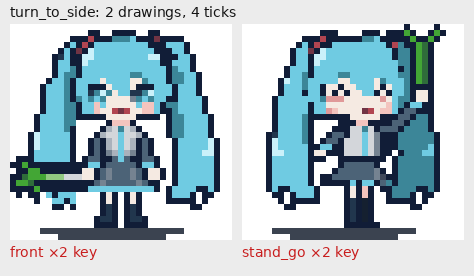
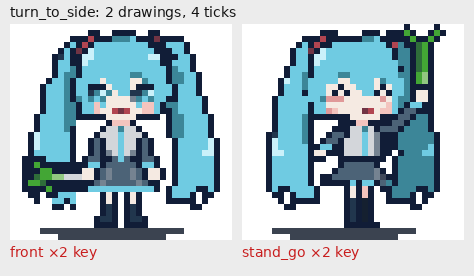
miku-v2 compact tier, critic round 3 fixes: no leftover lash beside the '^' eyes, raised leek pales to white at the fist with a lit edge and joined leaves, flat front shirt, front leek no wider than the walk, lowering leek drawn in front of the legs

diff --git a/tools/miku/halve.py b/tools/miku/halve.py
@@ -87,12 +87,13 @@ def despeckle(g):
 EYES = {
     "open":       [["BBB", "FCG", "CAC"], ["BBB", "FCG", "CAC"]],      # front view
     "line_front": [["...", "BBB", "..."], ["...", "BBB", "..."]],
-    "cheery":     [["..B..", ".B.B."], [".B.", "B.B"]],
+    "cheery":     [["A..B..", "A.B.B."], [".B.", "B.B"]],    # col 0: the halved lash -> hair
     "half":       [["BBBBB", ".FCF."], ["BBB", "FCF"]],
     "line":       [[".....", "BBBBB"], ["...", "BBB"]],
 }
 FRONT_EYES = [(13, 10), (21, 10)]
 DIAG_EYES = [(14, 10), (22, 10)]         # with the head at its rest position
+EYE_X0 = {"cheery": [-1, 0]}             # patches that start a column left of the eye
 
 
 def put(g, x0, y0, rows):
@@ -143,11 +144,11 @@ def paste_ring(g, x0, y0, rows, behind=False):
 
 FRONT_BODY = (11, 16, [          # front view, rows 16-33: jacket, tie, sleeves, skirt, legs
     "     BPPPB     ",
-    "    BNLCLNB    ",
-    "   BNLLALLNB   ",
-    "  BDBNLALNBDB  ",
-    "  BDBNLALNBDB  ",
-    "  BDBKNANKBDB  ",
+    "    BLLCLLB    ",
+    "   BLLLALLLB   ",
+    "  BDBLLALLBDB  ",
+    "  BDBLLALLBDB  ",
+    "  BDBKLALKBDB  ",
     " BDDBBDADBBDDB ",
     " BAABDDDDDBAAB ",
     "BEEBDKDDDKDBEEB",
@@ -161,11 +162,11 @@ FRONT_BODY = (11, 16, [          # front view, rows 16-33: jacket, tie, sleeves,
     "   BFFB BFFB   ",
     "   BBBB BBBB   ",
 ])
-FRONT_LEEK = (1, 23, ["BIB        ",       # blades splay unevenly; white root at her hand
-                      " BIIBBBBBBB",
-                      "BXIIIbbbLLL",
-                      "IIXBBBBBBBB",
-                      "B  I       "])
+FRONT_LEEK = (3, 23, ["BIB      ",         # blades splay unevenly; white root at her hand;
+                      " BIIBBBBB",         # no wider than the walking silhouette
+                      "BXIIbbLLL",
+                      "IIXBBBBBB",
+                      "B  I     "])
 FRONT_MOUTH = {"open": (17, 14, "SVS"), "line_front": (17, 14, "EBB")}
 
 # flat shirt: one light grey, one shade column on the far side, a 1 px tie with its knot
@@ -186,17 +187,17 @@ NEAR_ARM = (11, 18, ["    DD",            # rows 2-3 (forearm) shift with the sw
                      "  AA  ",
                      " EE   "])
 LIMP_ARM = (14, 18, ["DD", "DD", "DD", "DD", "AA", "EE"])
-LEEK_UP = (27, 1, ["I    I",
+LEEK_UP = (27, 1, ["I    I",           # leaves joined to the stalk as a V
                    " I  I ",
-                   "  IX  ",
-                   "  IX  ",
-                   "  IX  ",
-                   "  IX  ",
-                   "  IX  ",
-                   "  IX  ",
-                   "  IX  ",
-                   "  bb  ",
-                   "      ",
+                   "  XI  ",            # dark side and lit edge
+                   "  XI  ",
+                   "  XI  ",
+                   "  XI  ",
+                   "  XI  ",
+                   "  Ib  ",            # paling toward the white end at her fist
+                   "  Ib  ",
+                   "  bL  ",
+                   "  bL  ",
                    "      ",
                    "   L  "])
 ARM_UP = (23, 11, ["      EE",
@@ -261,7 +262,7 @@ def parts_diagonal(g, meta, arm, k):
     u, leek = meta["u"], meta["leek"]
     sh = lambda part, dy=db: (part[0], part[1] + dy, part[2])        # noqa: E731
     if leek == "low":
-        paste_ring(g, *sh(LEEK_LOW), behind=True)
+        paste_ring(g, *sh(LEEK_LOW))
     if leek == "drag":
         x0, y0, rows = DRAG_LEAVES
         paste_ring(g, x0, y0, rows)
@@ -288,8 +289,7 @@ def parts_diagonal(g, meta, arm, k):
         paste_ring(g, *sh(ARM_MID))
     elif leek == "up":
         x0, y0, rows = LEEK_UP
-        paste_ring(g, x0 - arm, y0 + db, rows[:2])               # the leaves trail the arm
-        paste_ring(g, x0, y0 + 2 + db, rows[2:])
+        paste_ring(g, x0, y0 + db, rows)
         paste_ring(g, *sh(ARM_UP))
     m = MOUTH.get(meta["face"], "BB")
     for i, c in enumerate(m):
@@ -304,8 +304,8 @@ def compact(full_rows, eyes=None, meta=None, arm=0, k=0):
     close_outline(g)
     if eyes:
         face, spots = eyes
-        for (x, y), rows in zip(spots, EYES[face]):
-            put(g, x, y, rows)
+        for i, ((x, y), rows) in enumerate(zip(spots, EYES[face])):
+            put(g, x + EYE_X0.get(face, [0, 0])[i], y, rows)
     if meta is not None:
         if meta.get("view") == "front":
             parts_front(g, meta.get("drawing"))
